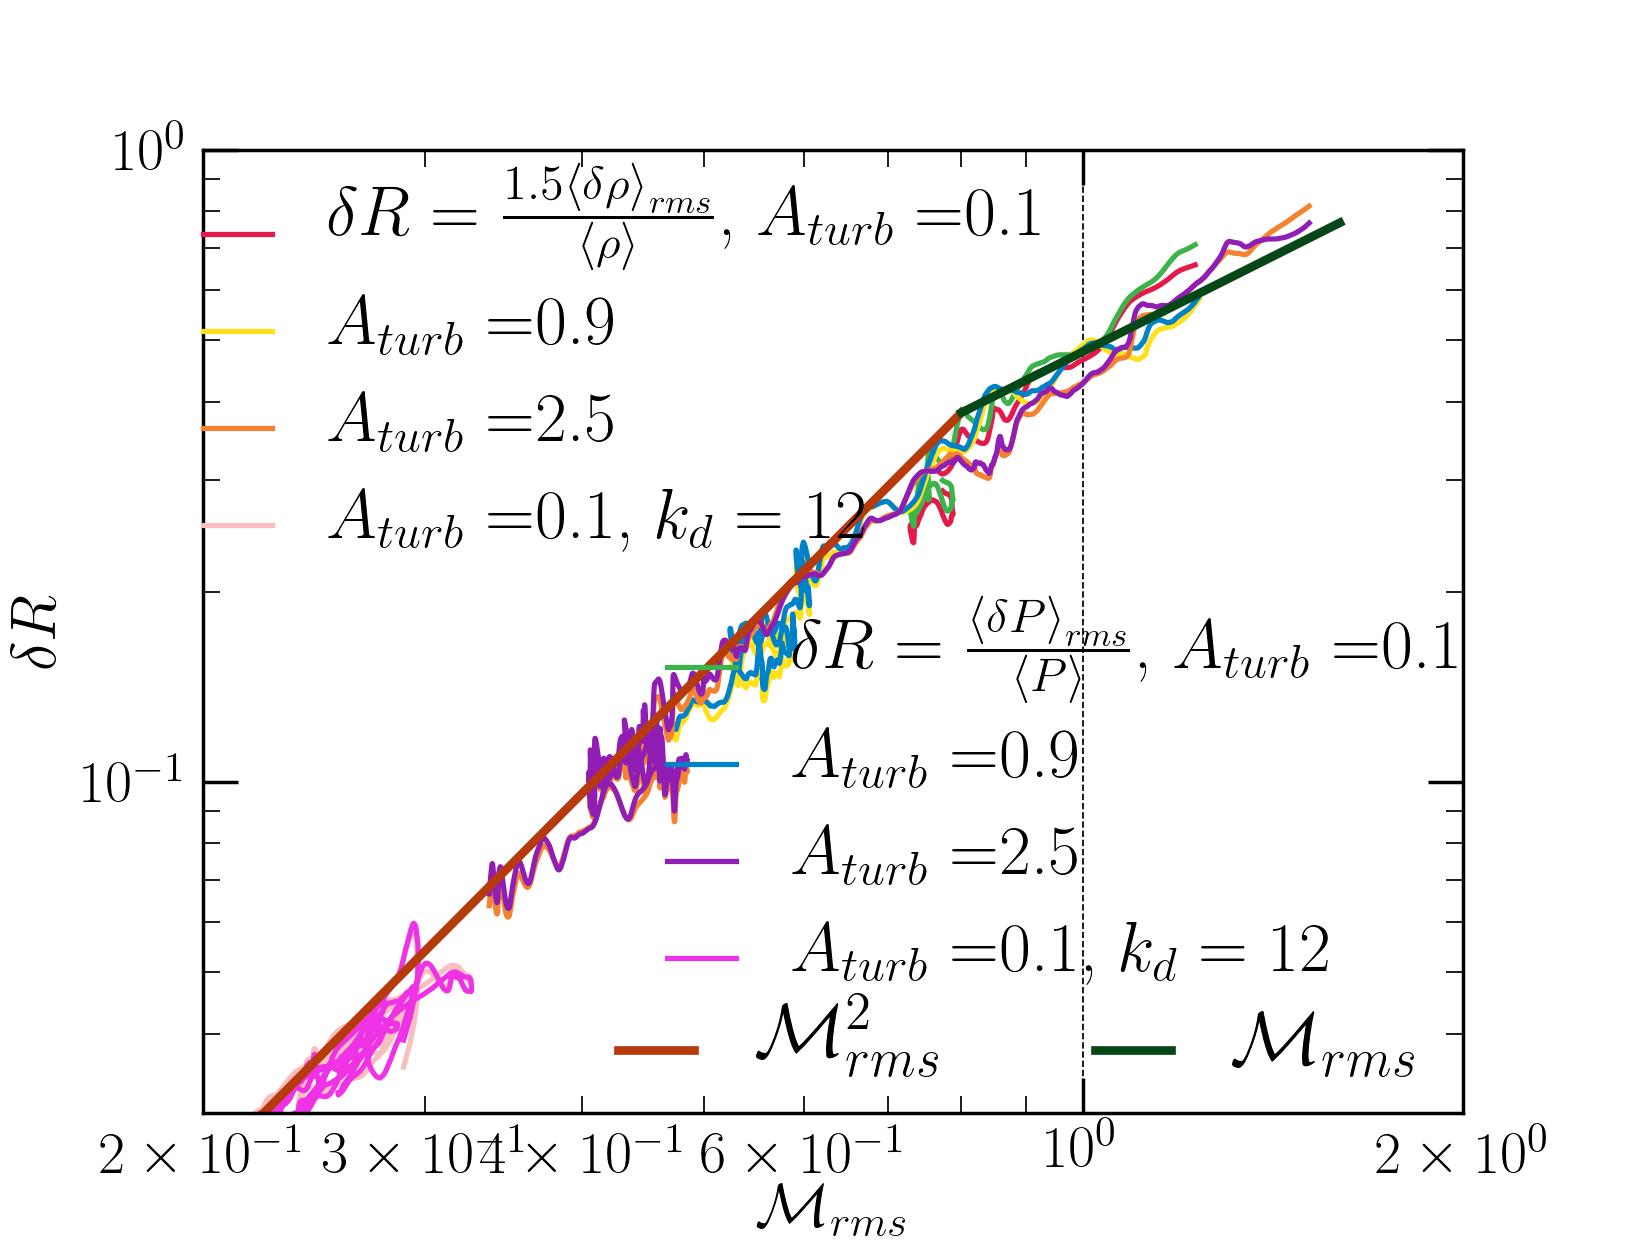
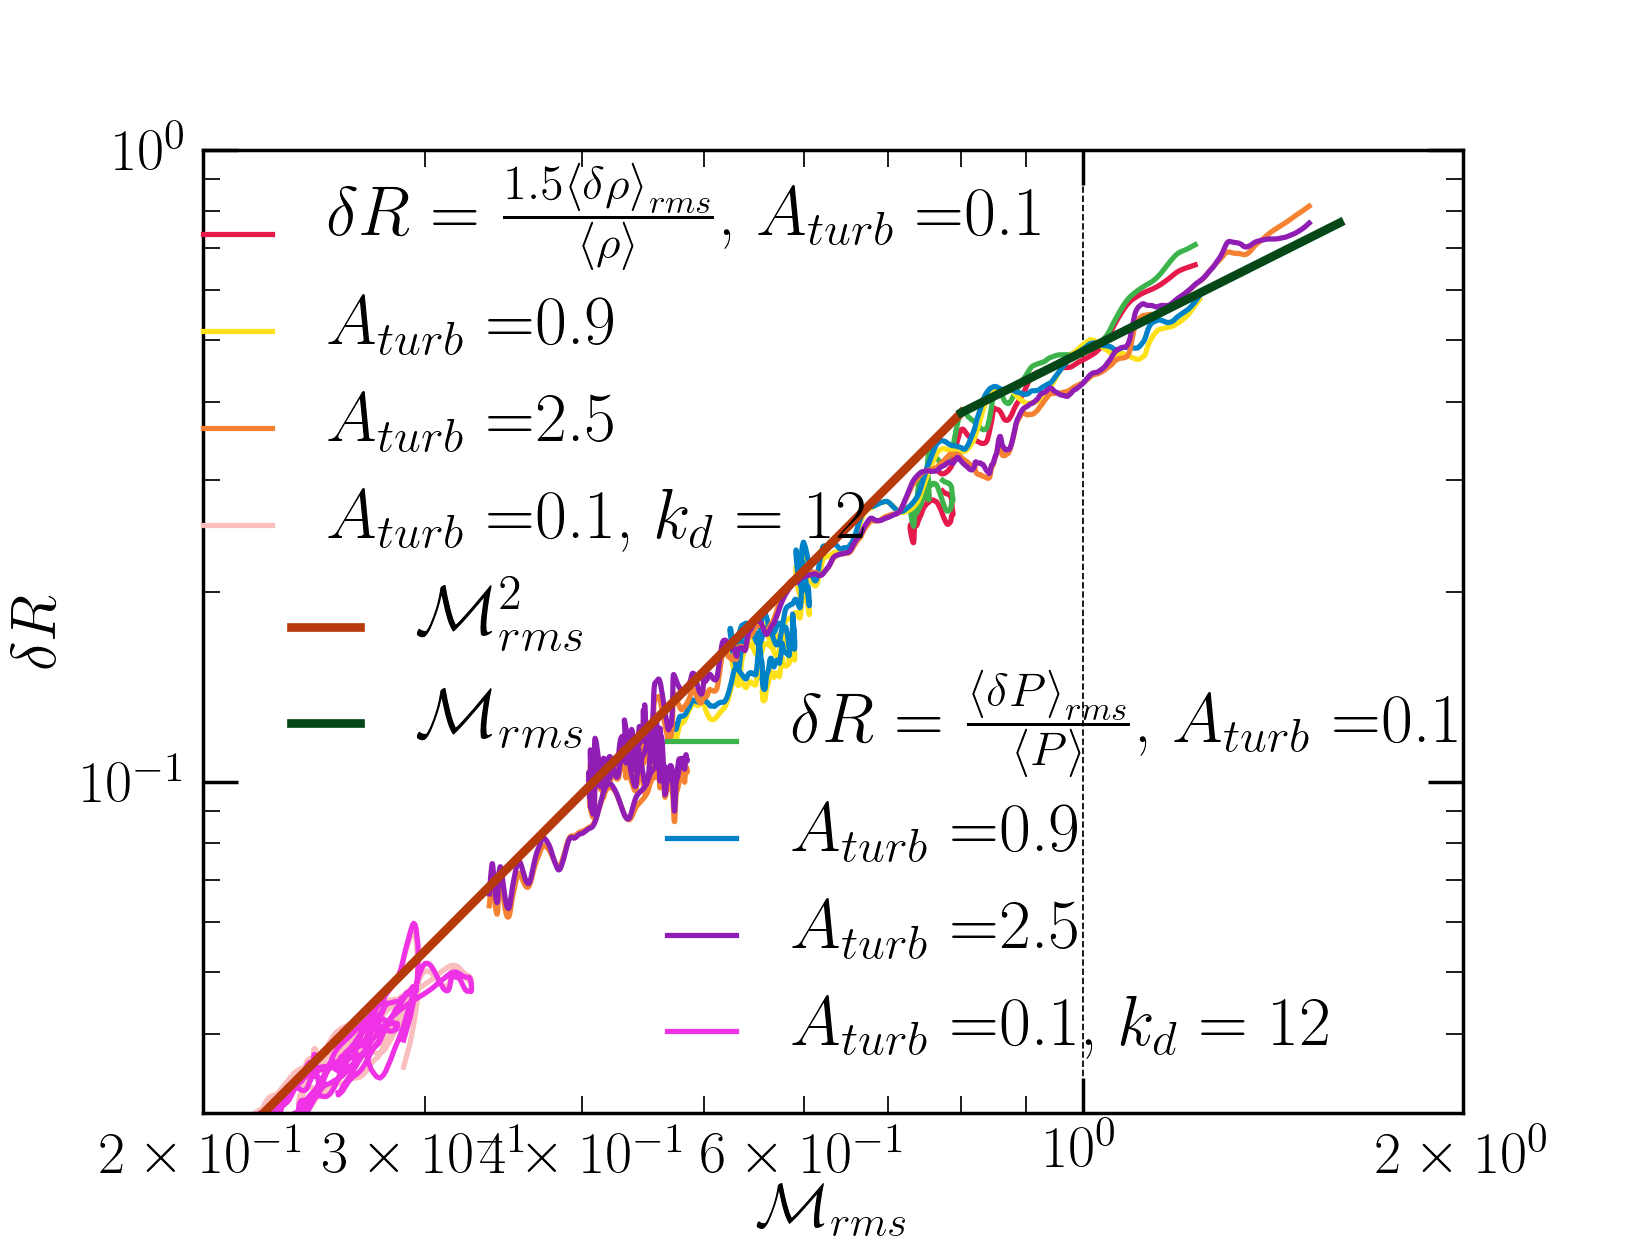
Edited plots

diff --git a/rho-mach/density_mach_256.py b/rho-mach/density_mach_256.py
@@ -87,10 +87,10 @@ ax.set_position([box.x0, box.y0, box.width, box.height])
 perturb1_leg=ax.legend(handles=perturb1, loc='upper left', bbox_to_anchor=(-0.05, 1.05), ncol=1, fontsize=20)
 ax.add_artist(perturb1_leg)
 perturb1_leg.get_frame().set_alpha(0.)
-perturb2_leg=ax.legend(handles=perturb2, loc='upper right', bbox_to_anchor=(1.05, 0.6), ncol=1, fontsize=20)
+perturb2_leg=ax.legend(handles=perturb2, loc='lower right', bbox_to_anchor=(1.05, -0.02), ncol=1, fontsize=20)
 ax.add_artist(perturb2_leg)
 perturb2_leg.get_frame().set_alpha(0.)
-fit_leg=ax.legend(handles=fit, loc='lower right', bbox_to_anchor=(1.02, -0.05), ncol=2, fontsize=22.)
+fit_leg=ax.legend(handles=fit, loc='lower left', bbox_to_anchor=(.02, 0.3), ncol=1, fontsize=20.)
 fit_leg.get_frame().set_alpha(0.)
 
 ax.grid(color='black', linestyle='dashed', linewidth=.5, axis='x')
